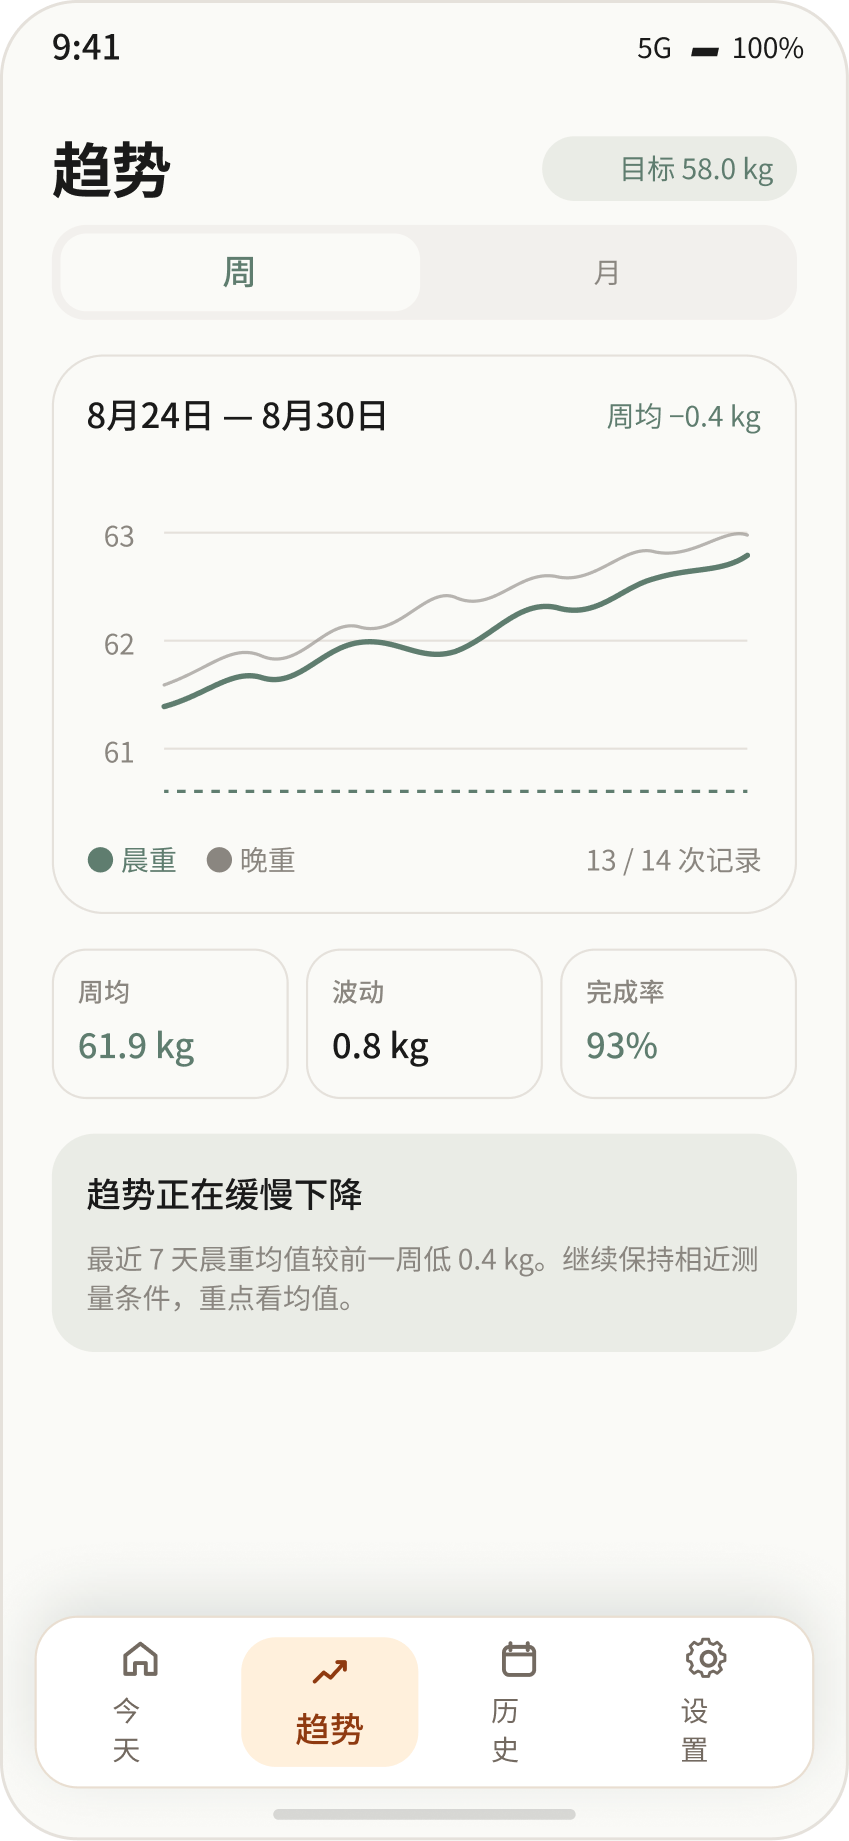
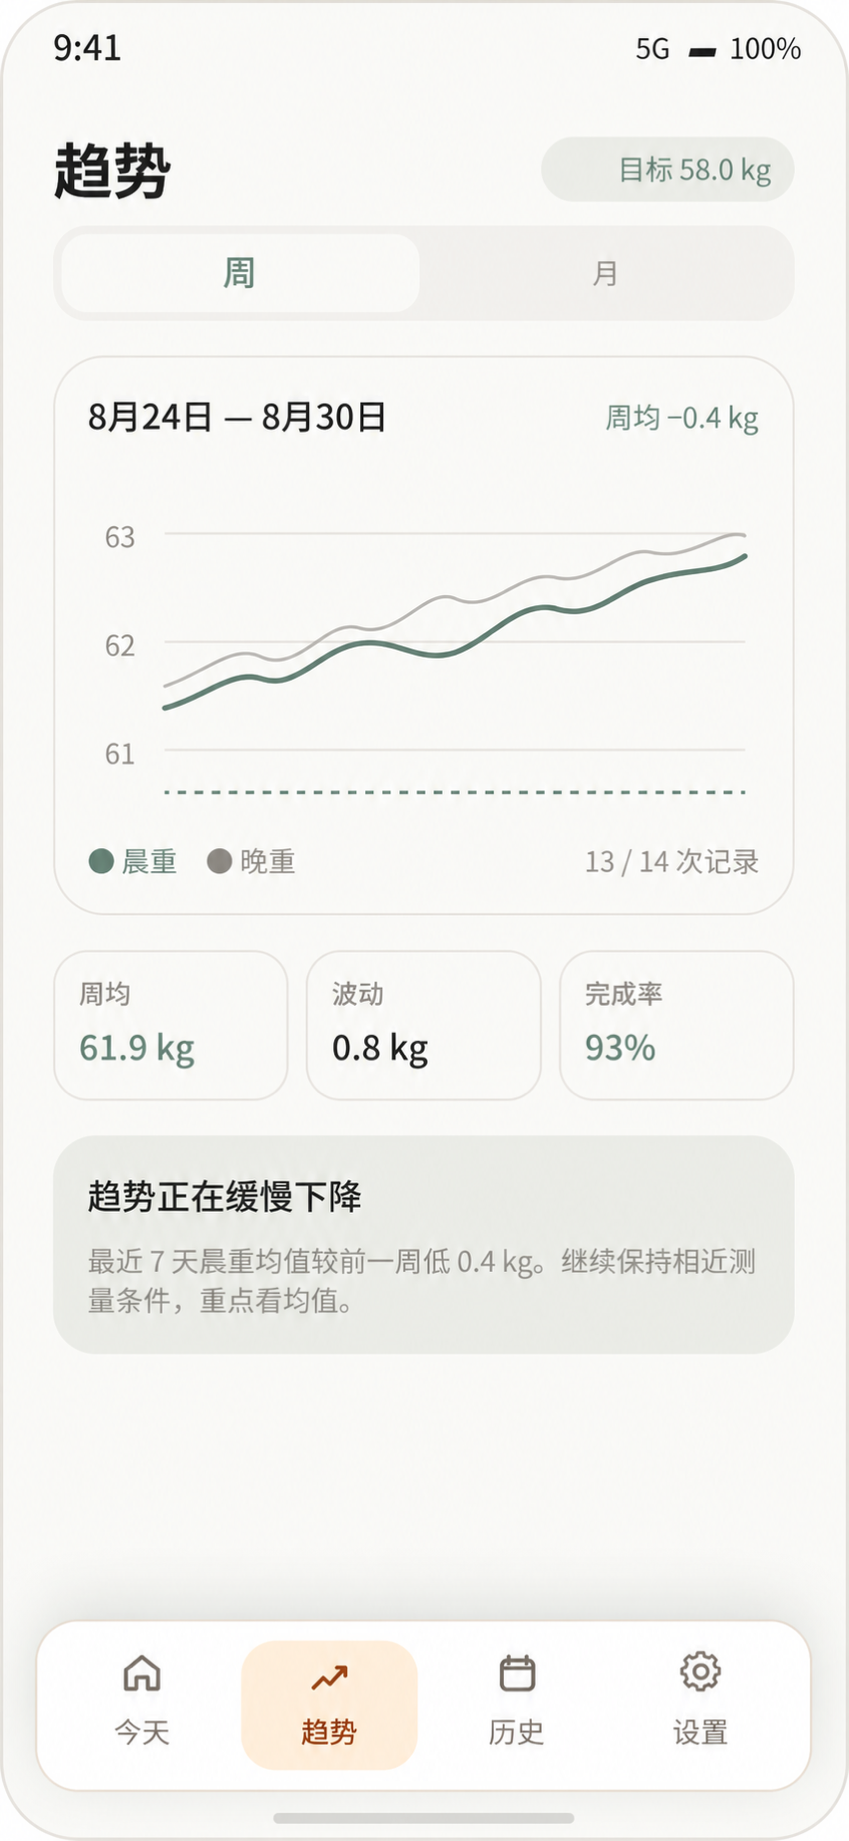
修改图片

diff --git a/dailyWeight/index.html b/dailyWeight/index.html
@@ -204,7 +204,7 @@
             <span data-i18n="trends.stageTitle">周趋势</span>
             <i></i>
           </div>
-          <img class="phone-screen" src="./assets/images/weekly-trend.png?v=3x" width="283" height="614"
+          <img class="phone-screen" src="./assets/images/weekly-trend.png?v=4x" width="283" height="614"
             alt="朝夕体重的周趋势画面" data-i18n-alt="trends.stageAlt" />
           <figcaption data-i18n="trends.stageCaption">晨重与晚重分开绘制，避免把两个时段混为一谈。</figcaption>
         </figure>
